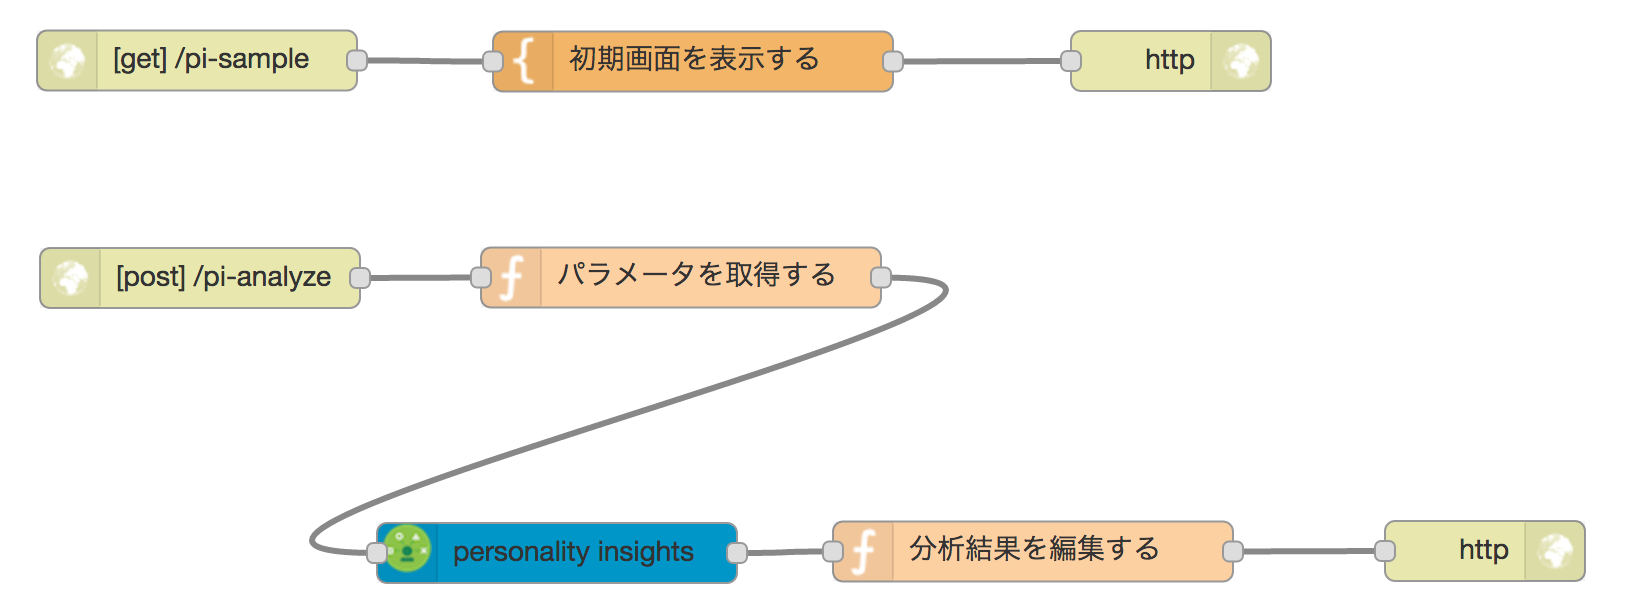
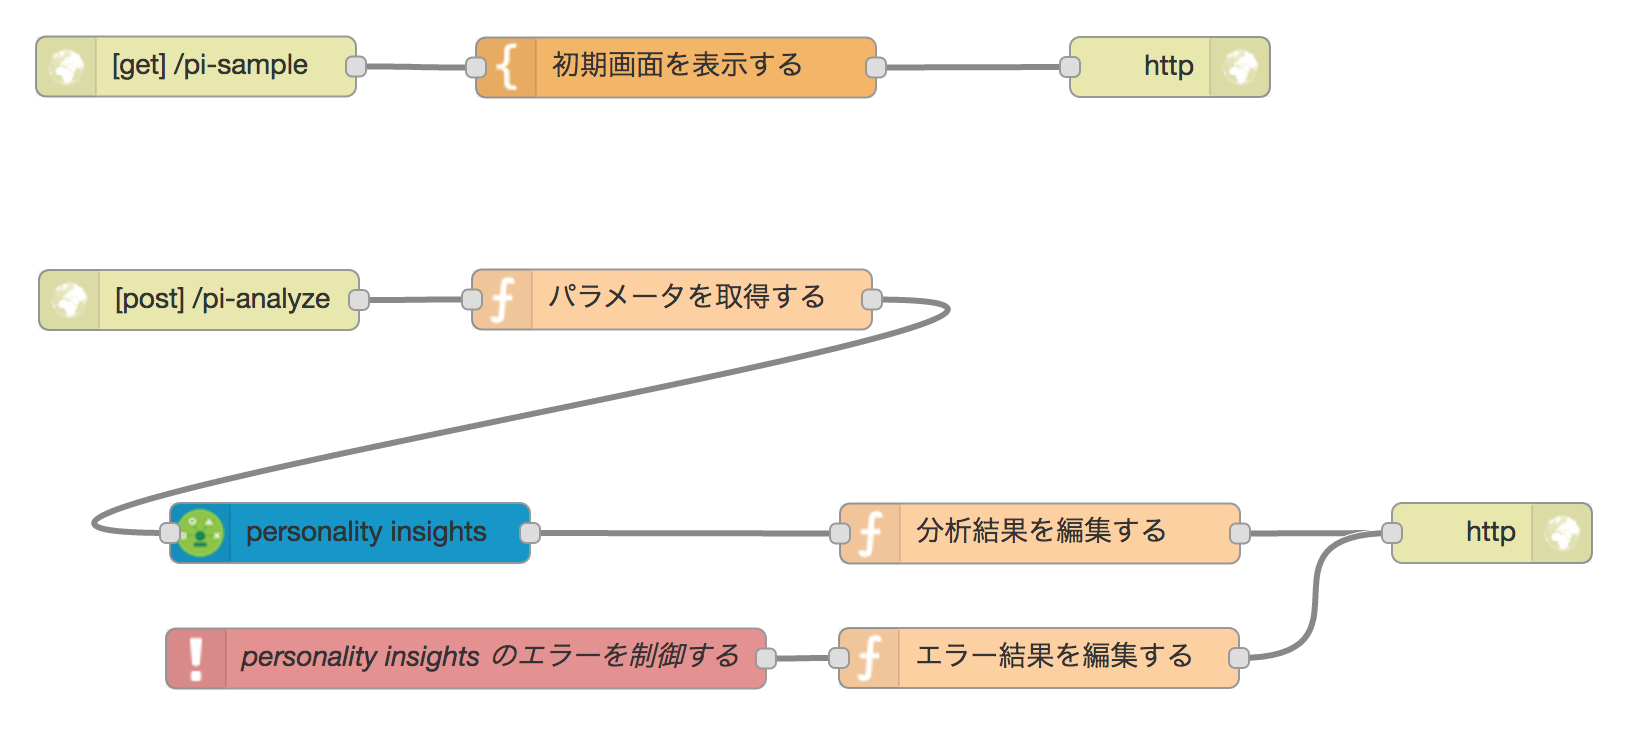
文書精査

diff --git a/public/pi-sample.html b/public/pi-sample.html
@@ -47,26 +47,21 @@
             var resultId = $('#resultId');
             var statusId = $('#statusId');
             var text = $('#textId').val();
-            if (text.length >= 120) {
-                statusId.html('<p class="text-info">分析中です・・・</p>');
-                $.ajax({
-                    "type": "POST",
-                    "url": "/pi-analyze",
-                    "data": {
-                        "text": text
-                    }
-                }).done(function (value) {
-                    chart.show(value, image);
-                    statusId.append('<p class="text-info">・・・完了しました。</p>');
-                }).fail(function (value) {
-                    statusId.append('<p class="text-danger">・・・エラーが発生しました。</p>');
-                }).always(function (value) {
-                    resultId.html('<pre>' + JSON.stringify(value, undefined, 2) + '</pre>');
-                });
-            } else {
-                statusId.html('<p class="text-danger">分析には最低限100語必要です。統計的に有意な推定値を計算するには最低600語、1,200語以上が望ましいです。</p>');
-                resultId.html('');
-            }
+            statusId.html('<p class="text-info">分析中です・・・</p>');
+            $.ajax({
+                "type": "POST",
+                "url": "/pi-analyze",
+                "data": {
+                    "text": text
+                }
+            }).done(function (value) {
+                chart.show(value, image);
+                statusId.append('<p class="text-info">・・・完了しました。</p>');
+            }).fail(function (value) {
+                statusId.append('<p class="text-danger">・・・エラーが発生しました。</p>');
+            }).always(function (value) {
+                resultId.html('<pre>' + JSON.stringify(value, undefined, 2) + '</pre>');
+            });
             return false;
         });
     });

diff --git a/docs/Node-RED.md b/docs/Node-RED.md
@@ -63,6 +63,20 @@
 
 1. ノード一覧の『出力』カテゴリーから、『http response』ノードをドラッグ&ドロップする。
 1. httpノード → functionノード → personality insightsノード → functionノード → http responseノードの順にフローを接続する。
+1. ノード一覧の『入力』カテゴリーから、『catch』ノードをドラッグ&ドロップする。  
+1. catchノードをダブルクリックし、以下の値を設定する。
+  - Name：personality insights のエラーを制御する
+  - Catch errors from：selected nodes を選び、personality insights をチェック
+1. ノード一覧の『機能』カテゴリーから『function』ノードをドラッグ&ドロップする。
+1. functionノードをダブルクリックし、以下の値を設定する。
+  - Name：エラー結果を編集する
+  - Function：
+
+          msg.payload = msg.error.message;
+          msg.statusCode = 500;
+          return msg;  
+
+1. catchノード → functionノード → http responseノード (2ノードから接続) の順にフローを接続する。
 1. 『デプロイ』ボタンをクリックする。
 
 ### 完成したフロー定義の例
@@ -77,3 +91,9 @@
 1. 任意のテキストを入力して、『分析する』ボタンをクリックしてください。
   - 例) 第192回国会における安倍内閣総理大臣の所信表明演説 (全文をコピー&ペーストできます。)  
     - https://www.jimin.jp/news/parliament/133177.html
+
+### personality insights のエラーハンドリングについて
+* personality insights ノードはエラー時に後続ノードが実行されずに止まってしまいます。  
+* catch ノードを使用して、msg.error を検査することでエラーハンドリングができます。  
+* 当初は後続しないことに違和感があありました、こちらでも議論されており、Cool? なフローのようです。  
+  - https://github.com/node-red/node-red/issues/560

diff --git a/README.md b/README.md
@@ -79,10 +79,6 @@ Node-RED 版 のハンズオンテキストは [こちら](docs/Node-RED.md) を
 |----------------|----------|-------------------------------------|
 |アプリのメモリ     |256MBで充分|1GBに増やさないと2回目以降の分析でダウンする | 
 |レスポンスタイム   |速い       |遅い (Node.js 版の約2倍)               |
-|エラー制御        |できる     |フロー全体を catch して msg.error を検査することはできる。後続ノードではできない。 *1 *2|
-
-> *1 personality insights ノードはエラー時に後続せずに固まります。(実装上の問題と思われます。)  
-> *2 Personality Insights は最低100語入力しないとエラーになります。後続ノードでのエラー制御はできないため暫定対応としてクライアント JavaScript で文字数の判定をしています。判定箇所は [こちら](public/pi-sample.html#L50) です。  
 
 ## まとめ
 * Node-RED でのハンズオンのため、テンプレート (HTML + JS) が参照するライブラリや CSS は全てホストされたものを選びました。
